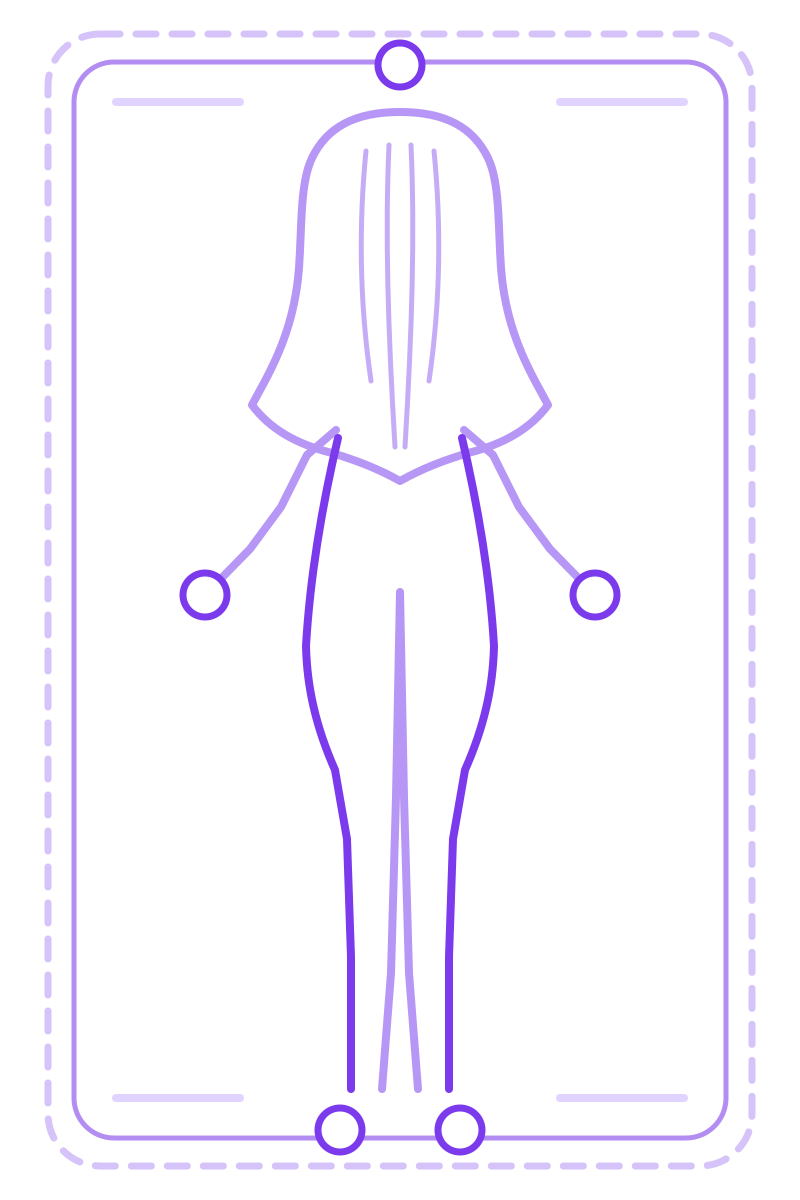
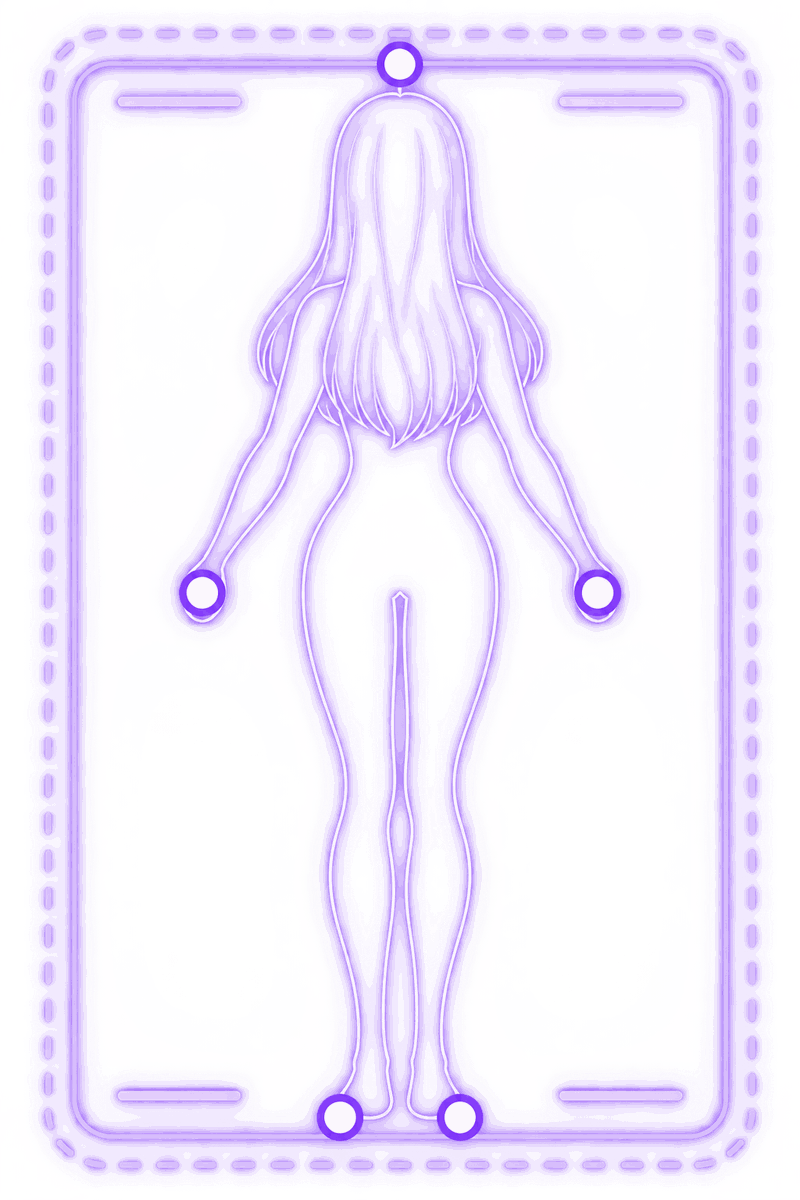
Replace My Info reference guide assets

Changed region(s): [[0.0312, 0.0, 0.9688, 0.9867]]

diff --git a/docs/HANDOFF.md b/docs/HANDOFF.md
@@ -40,10 +40,10 @@
 - 관리자 이미지 SQL 367/371은 `service_role` 전용이다.
 
 
-## 2026-08-23 참고 가이드 PNG 후속
+## 2026-08-24 참고 가이드 PNG 최종 에셋
 
-- FRONT/BACK/UPPER_BODY 촬영 가이드는 기존 SVG에서 투명 PNG로 교체했다. 활성 경로는 `front-2x3.png`, `back-2x3.png`, `upper-body-4x5.png`이며 각각 800×1200, 800×1200, 800×1000이다.
-- PNG는 얼굴·의상 채움 없이 캐릭터 외곽선과 머리카락 방향, 반투명 프레임/가이드만 표시한다. 기존 `<img>` overlay 구조를 재사용하며 가이드는 WebP 결과 픽셀에 포함되지 않는다.
+- FRONT/BACK/UPPER_BODY 촬영 가이드는 사용자가 제작한 `front.png`/`back.png`/`body.png`를 각각 `front-2x3.png`/`back-2x3.png`/`upper-body-4x5.png`에 매핑했다. 운영 크기는 800×1200, 800×1200, 800×1000이다.
+- PNG는 원본의 반투명 발광 프레임, 캐릭터 실루엣과 랜드마크를 유지한다. 기존 `<img>` overlay 구조를 재사용하며 가이드는 WebP 결과 픽셀에 포함되지 않는다.
 - 회귀 테스트는 PNG signature·IHDR 픽셀 크기·투명도·파일 크기와 legacy SVG 제거를 검증한다. Server/Edge/Storage 계약은 변경하지 않았다.
 
 ## My Info / Admin Image Modal 추가 UI 후속 — CLOSED
